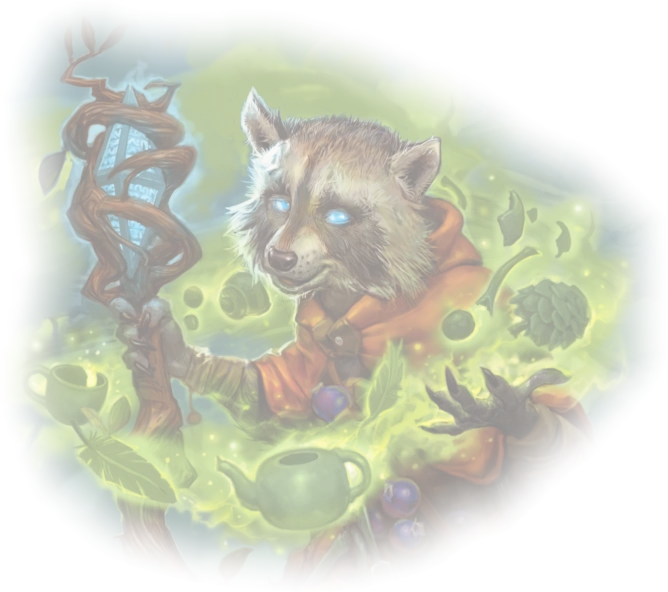
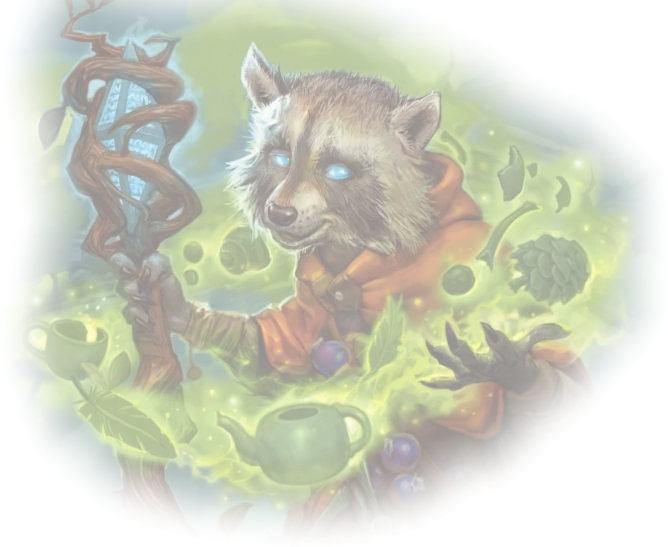
[Client] Incredible background.

diff --git a/client/src/css/style.css b/client/src/css/style.css
@@ -10,7 +10,7 @@ body {
 #main-container {
 	background: url("../assets/img/background.webp");
 	background-color: rgb(32, 32, 32);
-	background-position: 100% 0;
+	background-position: calc(100vw - 680px) 0;
 	background-repeat: no-repeat;
 	background-attachment: local;
 }
